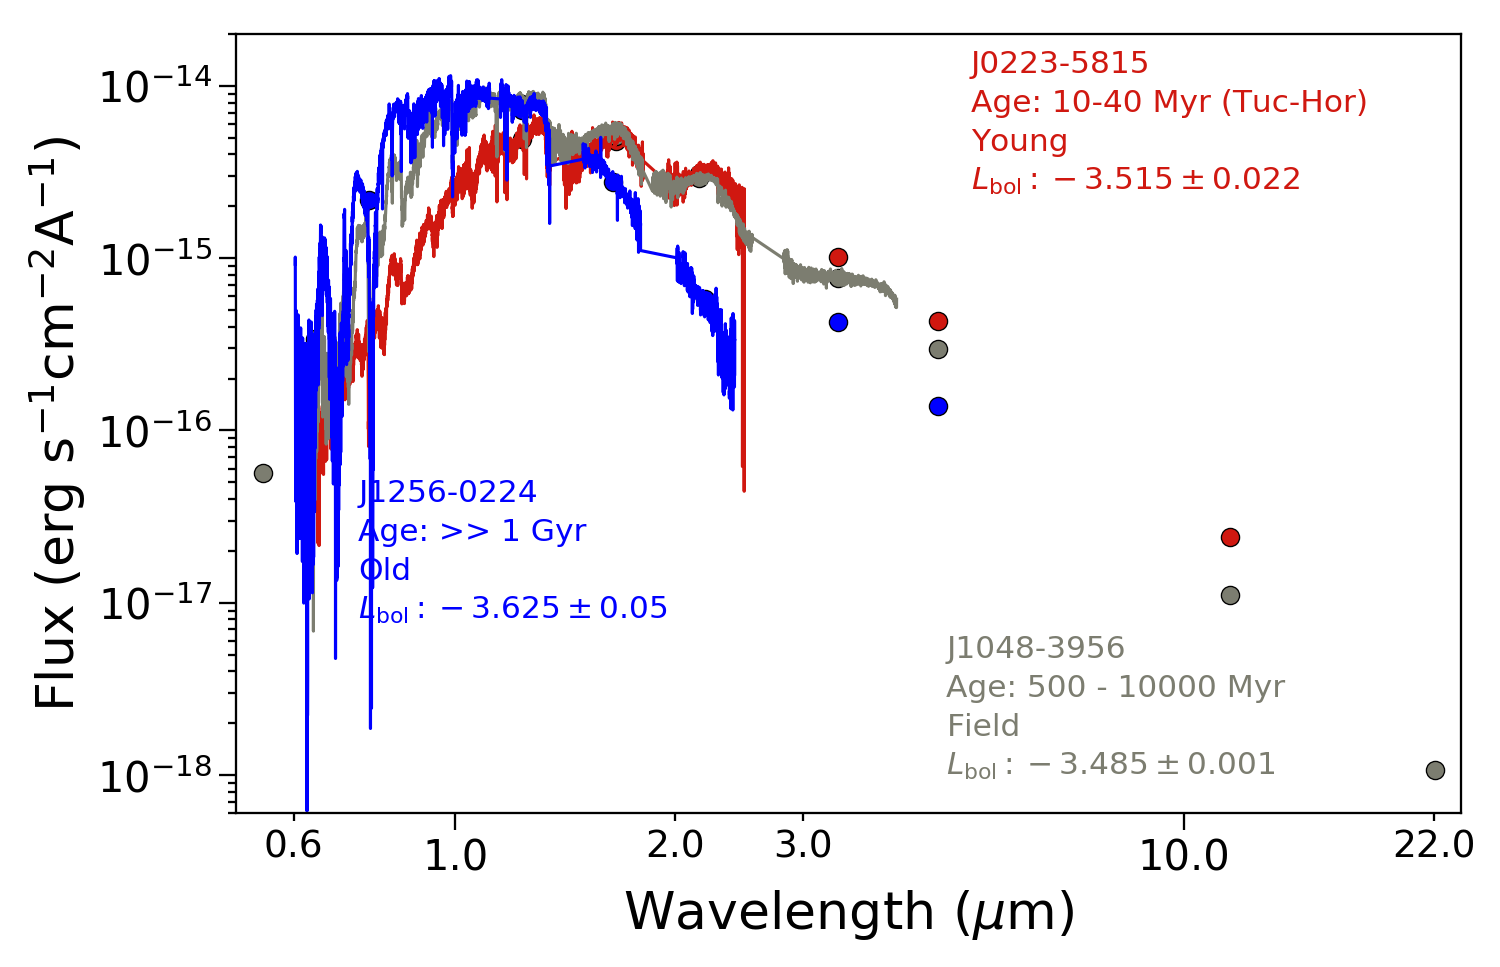
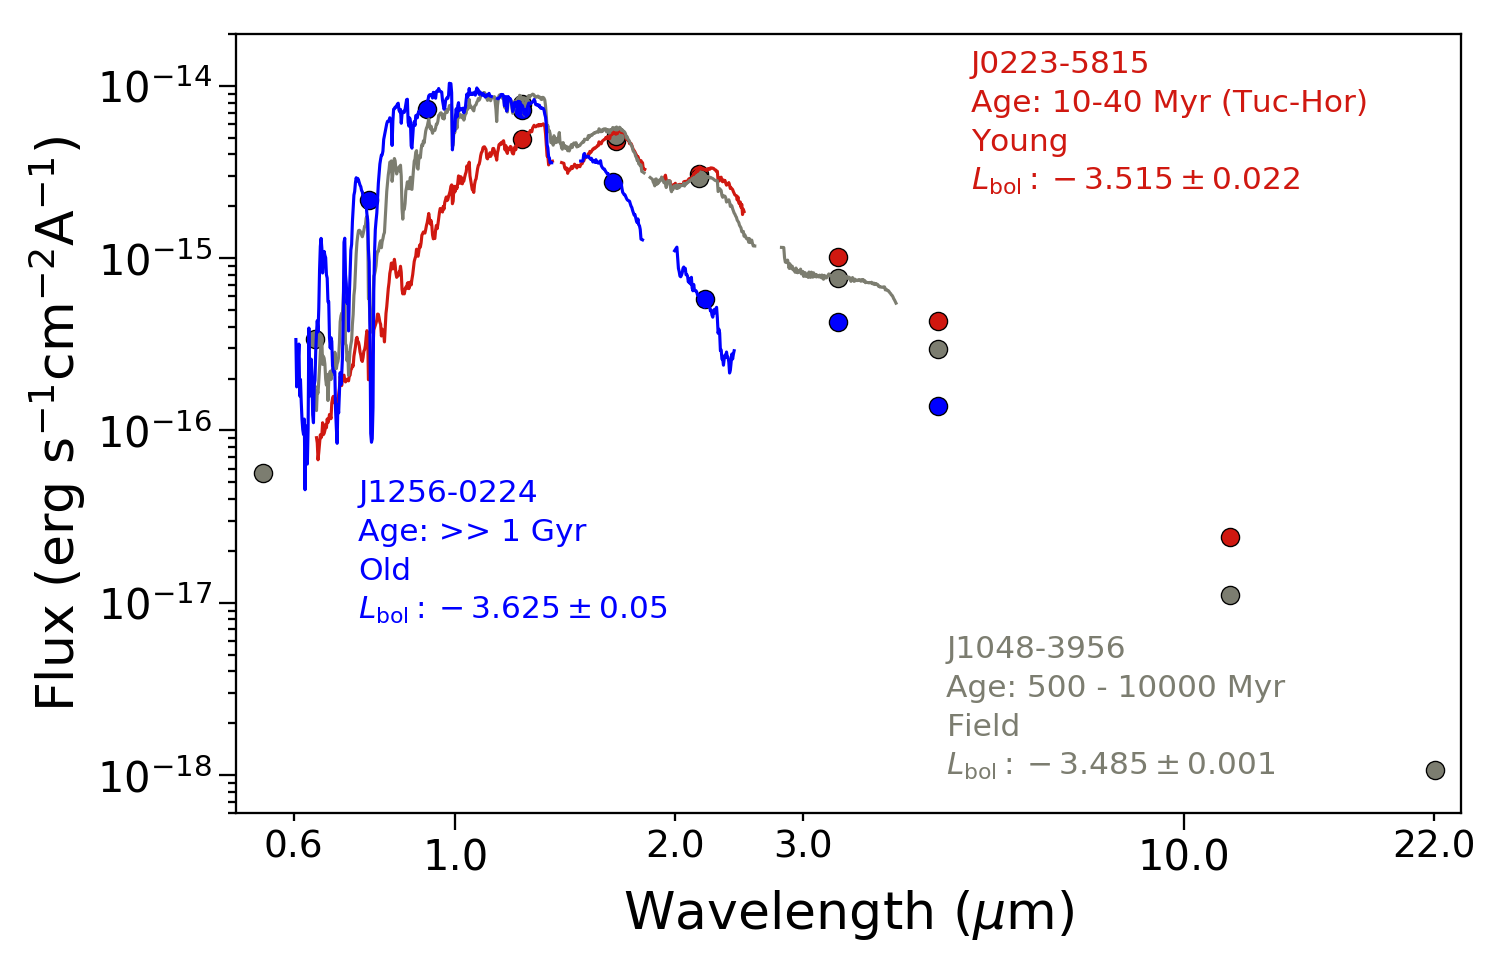
Added final smoothed versions with Gaia updates

Changed region(s): [[0.184, 0.062, 0.6133, 0.7446]]

diff --git a/compariosn_Lbol.py b/compariosn_Lbol.py
@@ -10,17 +10,17 @@ import numpy as np
 # ------------------------------------------------------------------------------------
 # Read  all in as pandas Dataframes TODO: Add in new smoothed data
 
-df_1256 = pd.read_csv('Data/Smoothed_data/Eileen_spectra_output/Lbol_overall/Gaia1256-0224 (L3.5sd) SED.txt', sep=" ",
-                      comment='#', header=None, names=["w", "f", "err"])
+df_1256 = pd.read_csv('Data/Smoothed_data/Eileen_spectra_output/Lbol_overall/Gaia1256-0224 (L3.5sd) SED_spexified.txt',
+                      sep=" ", comment='#', header=None, names=["w", "f", "err"])
 df_1256_phot = pd.read_csv('Data/Gaia1256-0224 (L3.5sd) phot.txt', sep=" ", header=1, names=["w", "f", "err"])
 
 # -------------- Comparison objects of the same Lbol ----------------------------------
-df_young = pd.read_csv('Data/Gaia0223-5815 (L0gamma) SED.txt', sep=" ",
-                       comment='#', header=None, names=["w", "f", "err"])
+df_young = pd.read_csv('Data/Smoothed_data/Eileen_spectra_output/Lbol_overall/Gaia0223-5815 (L0gamma) SED_spexified.txt'
+                       , sep=" ", comment='#', header=None, names=["w", "f", "err"])
 df_young_phot = pd.read_csv('Data/Gaia0223-5815 (L0gamma) phot.txt', sep=" ", comment='#', header=None,
                             names=["w", "f", "err"])
-df_field = pd.read_csv('Data/Gaia1048-3956 (M9) SED.txt', sep=" ", comment='#',
-                       header=None, names=["w", "f", "err"])
+df_field = pd.read_csv('Data/Smoothed_data/Eileen_spectra_output/Lbol_overall/Gaia1048-3956 (M9) SED_spexified.txt',
+                       sep=" ", comment='#',header=None, names=["w", "f", "err"])
 df_field_phot = pd.read_csv('Data/Gaia1048-3956 (M9) phot.txt', sep=" ", comment='#', header=None,
                             names=["w", "f", "err"])
 
